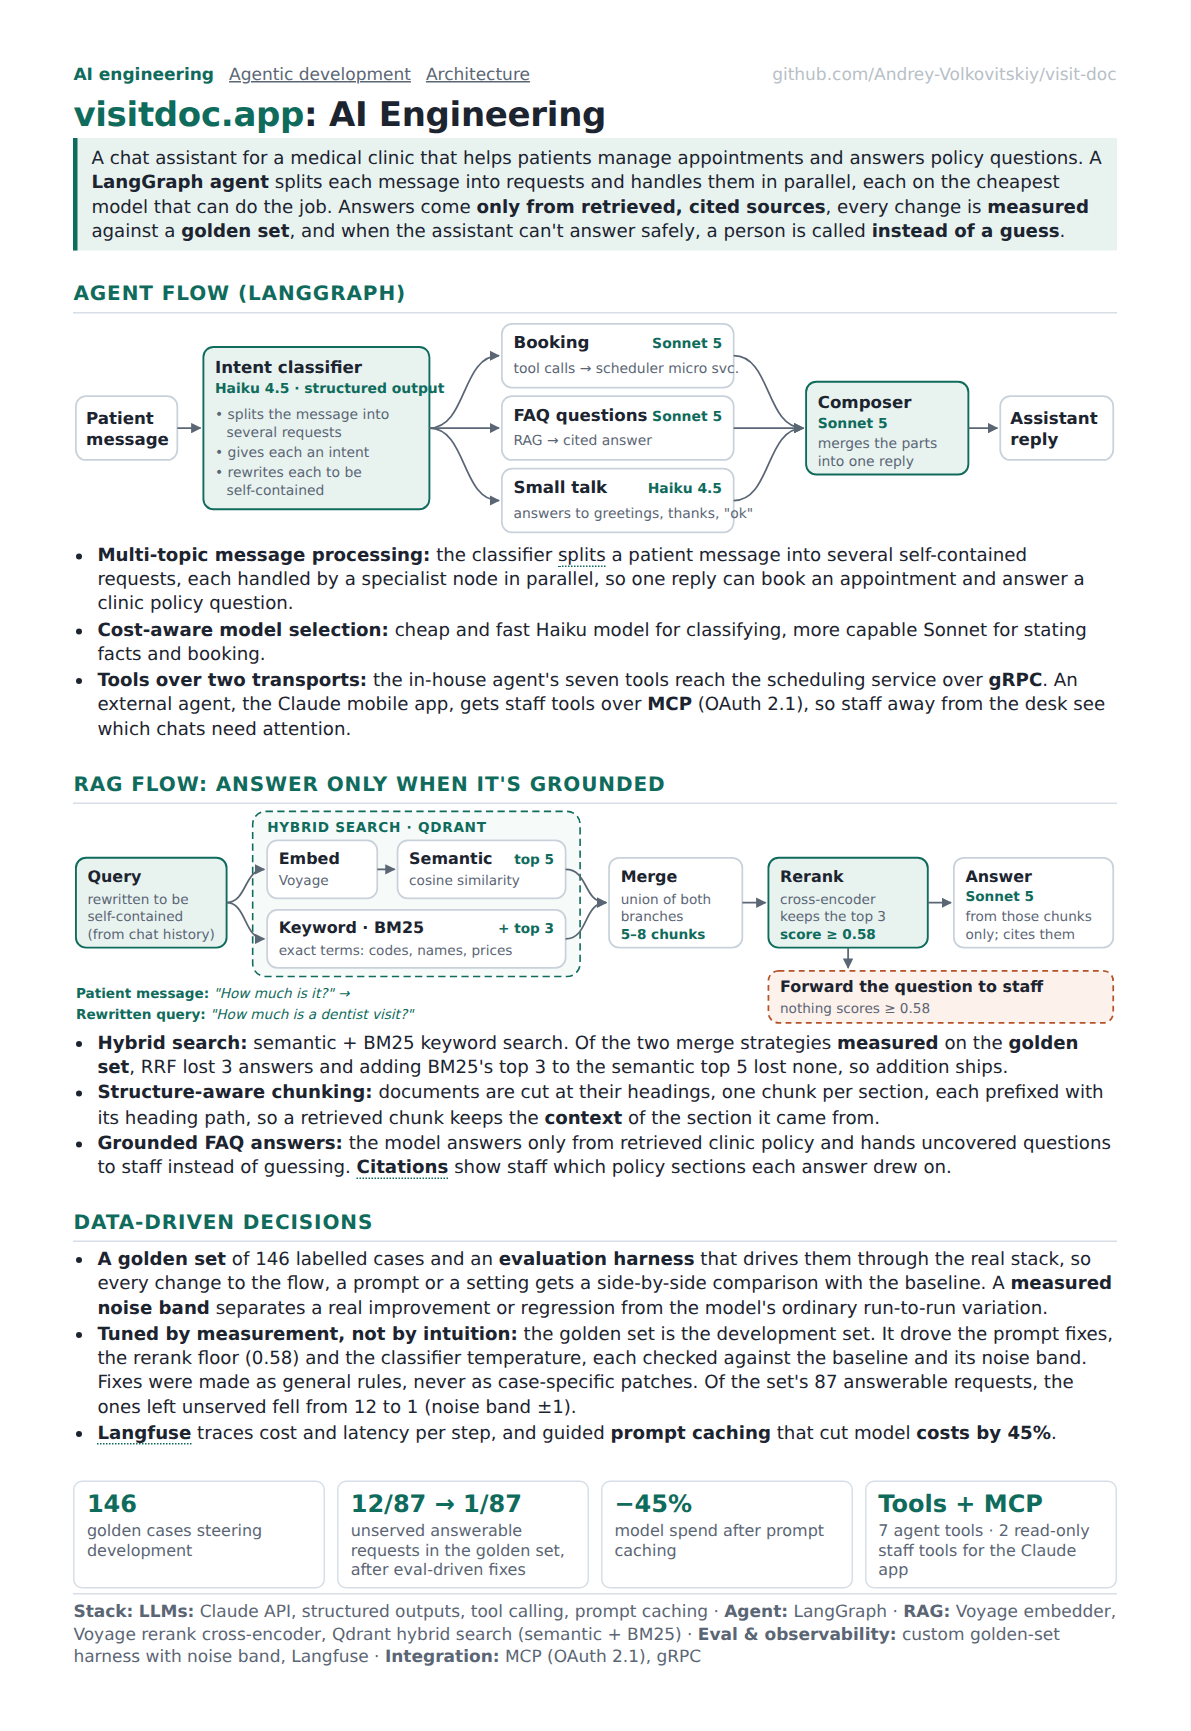
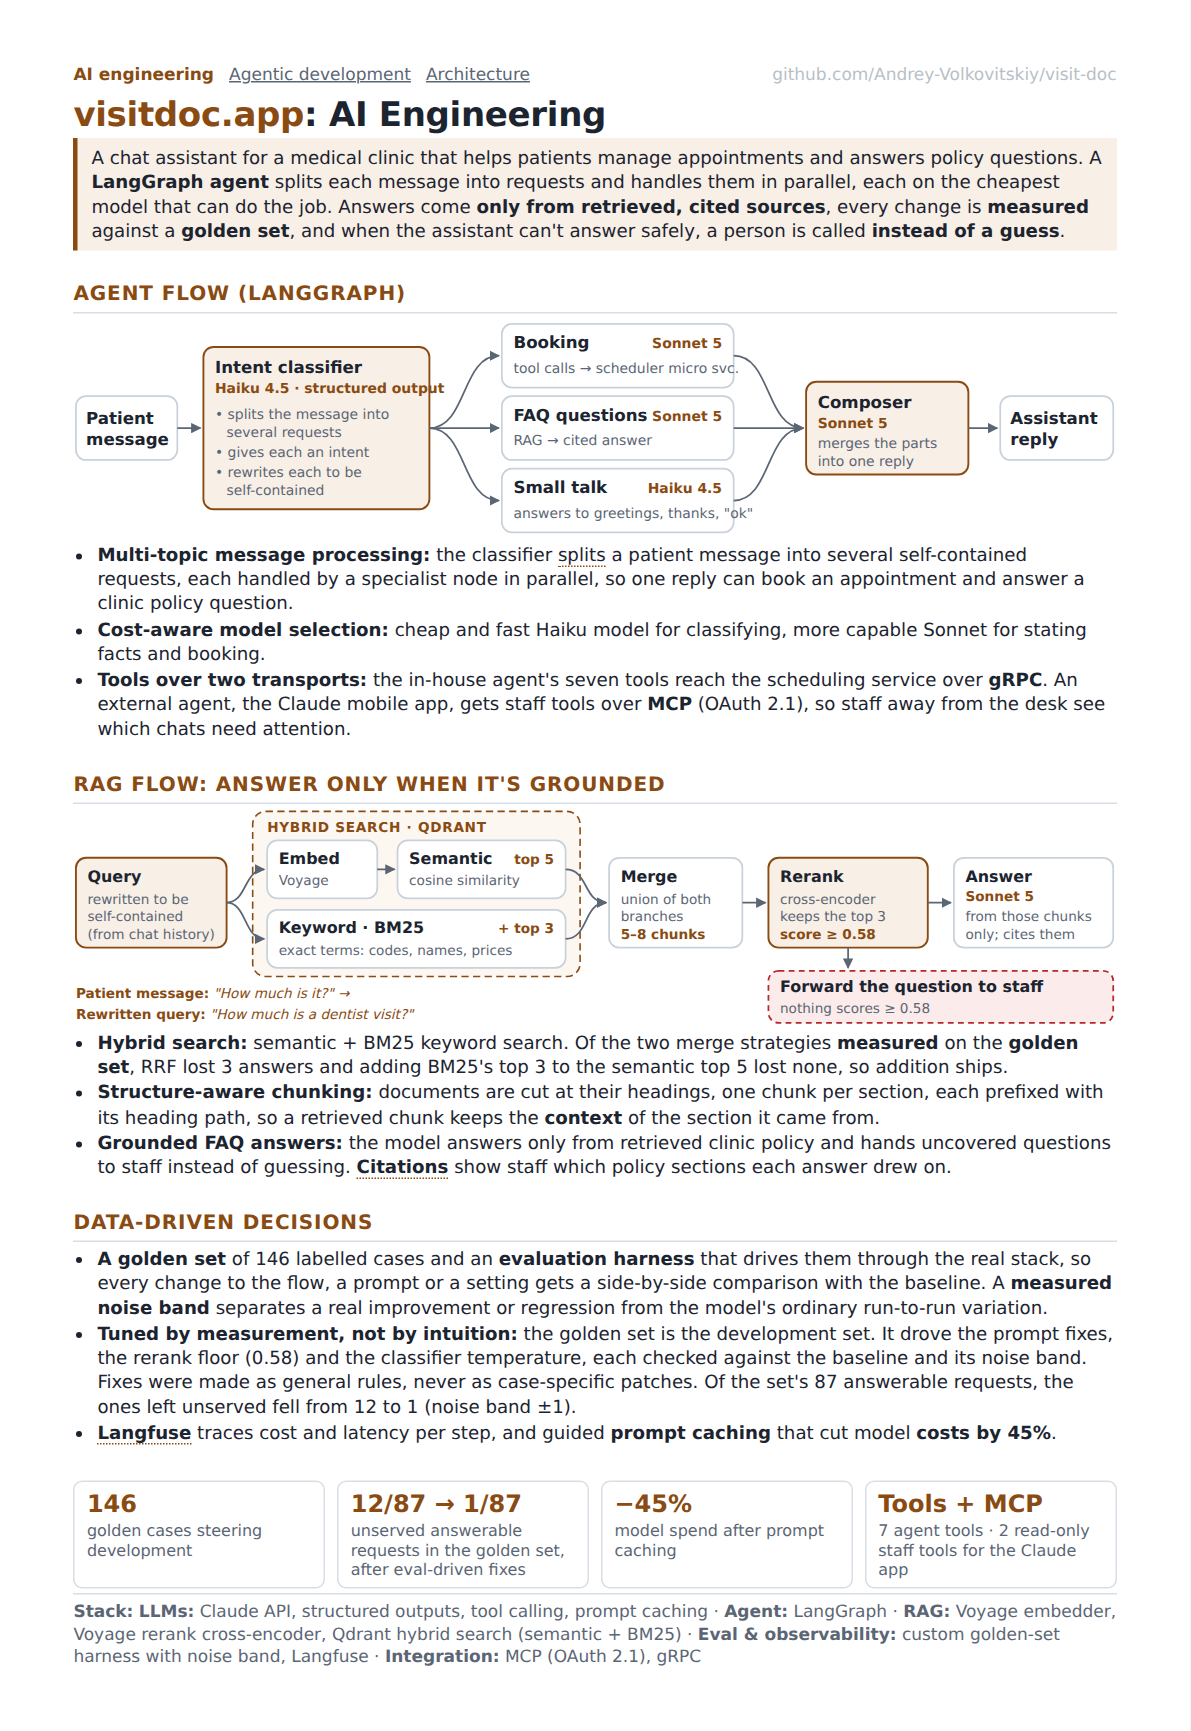
docs: Swap the AI engineering and architecture one-pagers' colour schemes and mark the staff hand-off in red

diff --git a/docs/portfolio-ai-engineering.html b/docs/portfolio-ai-engineering.html
@@ -5,7 +5,7 @@
 <meta name="viewport" content="width=device-width, initial-scale=1">
 <title>visitdoc.app · AI Engineering</title>
 <style>
-  :root { --ink:#1c2430; --muted:#5b6675; --accent:#0f6b5c; --soft:#e8f3f0; --line:#d7dee5; }
+  :root { --ink:#1c2430; --muted:#5b6675; --accent:#8a4b12; --soft:#f8efe6; --line:#d7dee5; }
   @page { size: A4; margin: 8mm 12mm; }
   * { box-sizing: border-box; }
   body { margin:0; background:#f4f6f8; color:var(--ink);
@@ -57,10 +57,10 @@
       <marker id="a1" viewBox="0 0 10 10" refX="9" refY="5" markerWidth="6" markerHeight="6" orient="auto"><path d="M0,0L10,5L0,10z" fill="#5b6675"/></marker>
       <style>
         .b{fill:#fff;stroke:#c9d1da;stroke-width:1.2}
-        .k{fill:#e8f3f0;stroke:#0f6b5c;stroke-width:1.3}
+        .k{fill:#f8efe6;stroke:#8a4b12;stroke-width:1.3}
         .t{font-size:11.5px;font-weight:600;fill:#1c2430}
         .s{font-size:9.6px;fill:#5b6675}
-        .m{font-size:9.6px;fill:#0f6b5c;font-weight:600}
+        .m{font-size:9.6px;fill:#8a4b12;font-weight:600}
         .ln{stroke:#5b6675;stroke-width:1.2;fill:none;marker-end:url(#a1)}
       </style>
     </defs>
@@ -112,15 +112,15 @@
       <marker id="a2" viewBox="0 0 10 10" refX="9" refY="5" markerWidth="6" markerHeight="6" orient="auto"><path d="M0,0L10,5L0,10z" fill="#5b6675"/></marker>
       <style>
         .b2{fill:#fff;stroke:#c9d1da;stroke-width:1.2}
-        .k2{fill:#e8f3f0;stroke:#0f6b5c;stroke-width:1.3}
-        .w2{fill:#fdf1ec;stroke:#b4532a;stroke-width:1.2;stroke-dasharray:4 3}
-        .g2{fill:#f6faf9;stroke:#0f6b5c;stroke-width:1.1;stroke-dasharray:5 3}
+        .k2{fill:#f8efe6;stroke:#8a4b12;stroke-width:1.3}
+        .w2{fill:#fbeceb;stroke:#b42a2a;stroke-width:1.2;stroke-dasharray:4 3}
+        .g2{fill:#fcf7f1;stroke:#8a4b12;stroke-width:1.1;stroke-dasharray:5 3}
         .t2{font-size:11px;font-weight:600;fill:#1c2430}
         .s2{font-size:9.4px;fill:#5b6675}
-        .m2{font-size:9.4px;fill:#0f6b5c;font-weight:600}
-        .h2{font-size:9.4px;fill:#0f6b5c;font-weight:700;letter-spacing:.5px}
-        .q2{font-size:9.4px;fill:#0f6b5c;font-style:italic}
-        .lb2{font-size:9.4px;fill:#0f6b5c;font-style:normal;font-weight:600}
+        .m2{font-size:9.4px;fill:#8a4b12;font-weight:600}
+        .h2{font-size:9.4px;fill:#8a4b12;font-weight:700;letter-spacing:.5px}
+        .q2{font-size:9.4px;fill:#8a4b12;font-style:italic}
+        .lb2{font-size:9.4px;fill:#8a4b12;font-style:normal;font-weight:600}
         .ln2{stroke:#5b6675;stroke-width:1.2;fill:none;marker-end:url(#a2)}
       </style>
     </defs>

diff --git a/docs/portfolio-architecture.html b/docs/portfolio-architecture.html
@@ -5,7 +5,7 @@
 <meta name="viewport" content="width=device-width, initial-scale=1">
 <title>visitdoc.app · Architecture</title>
 <style>
-  :root { --ink:#1c2430; --muted:#5b6675; --accent:#8a4b12; --soft:#f8efe6; --line:#d7dee5; }
+  :root { --ink:#1c2430; --muted:#5b6675; --accent:#0f6b5c; --soft:#e8f3f0; --line:#d7dee5; }
   @page { size: A4; margin: 8mm 12mm; }
   * { box-sizing: border-box; }
   body { margin:0; background:#f4f6f8; color:var(--ink);
@@ -41,7 +41,7 @@
       <marker id="a" viewBox="0 0 10 10" refX="9" refY="5" markerWidth="6" markerHeight="6" orient="auto-start-reverse"><path d="M0,0L10,5L0,10z" fill="#5b6675"/></marker>
       <style>
         .box{fill:#fff;stroke:#c9d1da;stroke-width:1.2;rx:7}
-        .core{fill:#f8efe6;stroke:#8a4b12;stroke-width:1.4}
+        .core{fill:#e8f3f0;stroke:#0f6b5c;stroke-width:1.4}
         .ext{fill:#f4f6f8;stroke:#c9d1da;stroke-dasharray:4 3}
         .t{font-size:12.5px;font-weight:600;fill:#1c2430}
         .s{font-size:10.5px;fill:#5b6675}
